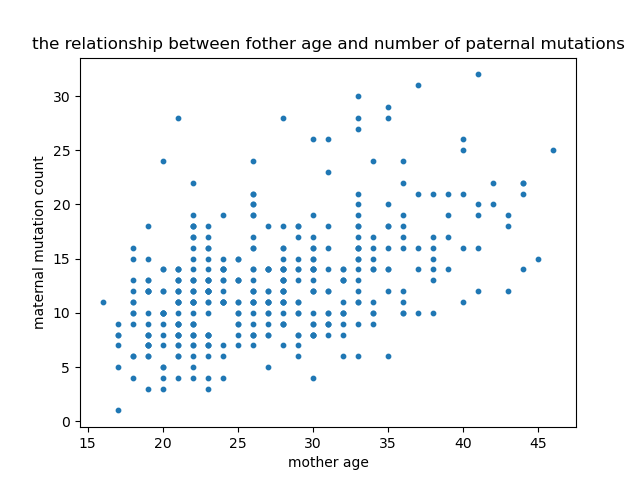
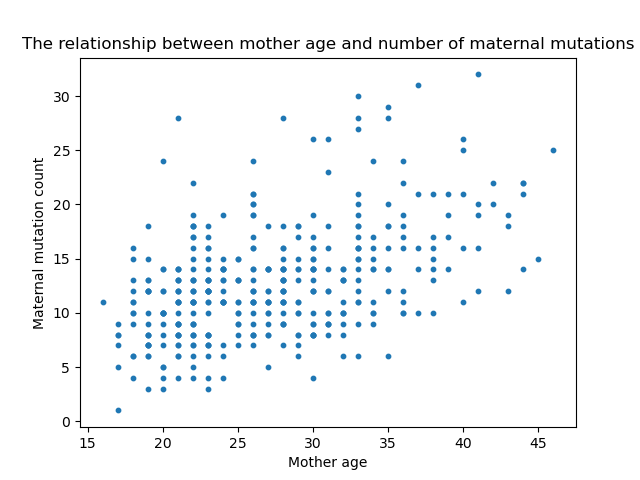
edited plot title

Changed region(s): [[0.0312, 0.0625, 1.0, 0.125], [0.0312, 0.3125, 0.0938, 0.6875], [0.4375, 0.9375, 0.5938, 1.0]]

diff --git a/day5-lunch/linear_regression.py b/day5-lunch/linear_regression.py
@@ -11,18 +11,18 @@ df = np.genfromtxt("age_count", delimiter = " ", dtype= None, encoding = None,na
 
 fig, ax  = plt.subplots()
 ax.scatter(df["m_age"], df["m_count"],s=10)
-ax.set_xlabel("mother age")
-ax.set_ylabel("maternal mutation count")
+ax.set_xlabel("Mother age")
+ax.set_ylabel("Maternal mutation count")
 #plt.show()
-ax.title.set_text("the relationship between fother age and number of paternal mutations")
+ax.title.set_text("The relationship between mother age and number of maternal mutations")
 plt.savefig("ex2_a.png")
 plt.close(fig)
 
 fig, ax  = plt.subplots()
 ax.scatter(df["f_age"], df["f_count"],s=10)
-ax.set_xlabel("father age")
-ax.set_ylabel("paternal mutation count")
-ax.title.set_text("the relationship between mother age and number of maternal mutations")
+ax.set_xlabel("Father age")
+ax.set_ylabel("Paternal mutation count")
+ax.title.set_text("The relationship between Father age and number of Paternal mutations")
 plt.savefig("ex2_b.png")
 plt.close(fig)
 
